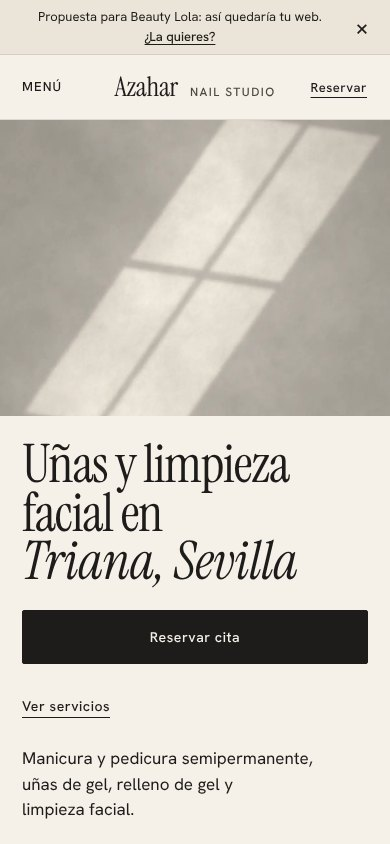
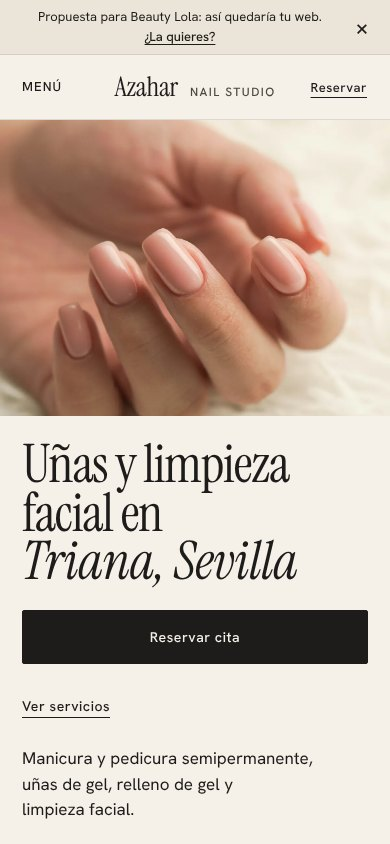
Fotos reales de Unsplash y horario con dos franjas
- Las cinco fotos (subidas a la raíz) pasan a src/assets/img/photos/ sustituyendo a las
  provisionales; en site.config.mjs provisional: false y los textos alternativos indicados.
- Horario: lunes a viernes 10:00-14:00 y 17:00-20:30, sábado 10:00-14:00, domingo cerrado.
  El formato admite varias franjas por día (`franjas`) y mantiene la forma corta abre/cierra;
  se valida el orden y los solapes. La tabla las muestra una debajo de otra, el resumen de la
  portada y los datos estructurados las recogen y «abierto ahora» entiende la pausa de mediodía.
- Portada móvil: encuadre object-position 50% 55% (cuatro uñas centradas a 360, 390 y 430 px).
- Imagen para compartir y capturas regeneradas; README: fotos de Unsplash y licencia, sin
  referencias a fotos provisionales.
- Tests (134): «abierto ahora» con reloj fijo en todas las franjas, validación de franjas,
  dimensiones y alt de las fotos comprobadas en el navegador y presupuesto de peso separando
  lo imprescindible de las fotos que Chrome adelanta.

Claude-Session: https://claude.ai/code/session_01KkmWQgXBP167e8u8chv8Gx

diff --git a/src/assets/css/styles.css b/src/assets/css/styles.css
@@ -281,6 +281,7 @@ p, dd { text-wrap: pretty; }
 .hours > div { display: flex; justify-content: space-between; align-items: baseline; padding: 16px 0; border-bottom: 1px solid var(--line-soft); font-variant-numeric: tabular-nums; }
 .hours dt { color: var(--ink-2); }
 .hours dd { font-weight: 500; }
+.hours__range { display: block; text-align: right; }   /* varias franjas el mismo día: una debajo de otra */
 .open-now { display: flex; align-items: center; gap: 10px; margin-top: 16px; font-size: .9375rem; font-weight: 500; }
 .open-now::before { content: ""; width: 9px; height: 9px; border: 1px solid var(--mute); border-radius: 50%; }
 .open-now.is-open::before { background: var(--bronze); border-color: var(--bronze); }
@@ -441,7 +442,7 @@ p, dd { text-wrap: pretty; }
   .hero { padding: 0; }
   .hero__grid { display: flex; flex-direction: column; padding: 0; }
   .hero__media { order: -1; position: relative; margin: 0; align-self: stretch; width: 100%; height: clamp(230px, 35svh, 440px); aspect-ratio: auto; }
-  .hero__media img { position: absolute; inset: 0; object-position: 50% 24%; }
+  .hero__media img { position: absolute; inset: 0; object-position: 50% 55%; }   /* franja baja y ancha: centra las uñas (probado a 360, 390 y 430 px) */
   .hero__copy { padding: 24px var(--gutter) 40px; justify-content: flex-start; gap: 24px; }
   .hero__title { font-size: 13.6vw; }
   .hero__foot { gap: 18px; }

diff --git a/src/index.html b/src/index.html
@@ -242,7 +242,7 @@
 
         <dl class="hours">
 {{#each horario}}
-          <div><dt>{{etiqueta}}</dt><dd>{{rango}}</dd></div>
+          <div><dt>{{etiqueta}}</dt><dd>{{#if abierto}}{{#each franjas}}<span class="hours__range">{{abre}} – {{cierra}}</span>{{#unless @last}}<span class="sr-only"> y </span>{{/unless}}{{/each}}{{else}}Cerrado{{/if}}</dd></div>
 {{/each}}
         </dl>
         <p class="open-now" id="open-now" data-horario="{{horarioJson}}" aria-live="polite" hidden></p>

diff --git a/README.md b/README.md
@@ -38,7 +38,7 @@ Añade `?para=Nombre` a la dirección y la barra de demo se dirige a esa persona
 | Páginas legales | Arriba, la nota *«Página de ejemplo. En tu web irán tus datos reales.»*; los datos del titular aparecen como *Pendiente*. |
 | Google | `noindex, nofollow` en **todas** las páginas, `robots.txt` con `Disallow: /`, sin `sitemap.xml` y **sin datos estructurados** de negocio local. |
 | Vista previa al compartir | `og:title` *«Web de ejemplo · JM Web Studio»*, descripción corta y `og:image` de 1200×630 (≈ 53 KB) hecha a partir de la portada, con URL absoluta. |
-| Servicios y reservas | Exactamente los 5 servicios de abajo, cada uno con su propio calendario de Cal.com. Su disponibilidad (lunes a viernes, de 9:00 a 17:00) coincide con el horario de la web. |
+| Servicios y reservas | Exactamente los 5 servicios de abajo, cada uno con su propio calendario de Cal.com. El horario de la web (lunes a viernes de 10:00 a 14:00 y de 17:00 a 20:30, sábado de 10:00 a 14:00, domingo cerrado) debe coincidir con la disponibilidad de Cal.com. |
 
 | Servicio | Duración | Precio | Calendario de Cal.com |
 | --- | --- | --- | --- |
@@ -58,13 +58,13 @@ Todo lo que no es de este salón vive en `site.config.mjs` y en `src/assets/img/
 2. **Edita [`site.config.mjs`](site.config.mjs)** (cada bloque está comentado):
    - `negocio`: nombre, marca, zona, **dirección** y consulta del mapa.
    - `contacto`: teléfono, WhatsApp y mensaje, correo (vacío = no se muestra).
-   - `horario`: franjas por días. **Debe coincidir con la disponibilidad de Cal.com.**
+   - `horario`: filas de días con una o varias `franjas` (p. ej. mañana y tarde el mismo día), o `cerrado: true`. **Debe coincidir con la disponibilidad de Cal.com.**
    - `reservas`: usuario de Cal.com y la lista de `servicios` (nombre, categoría, minutos, precio y `slug`). Cada servicio abre `cal.com/<usuario>/<slug>`: crea esos eventos en Cal.com con la misma duración.
    - `textos`: titular, bajadas, descripción SEO, textos de *Estudio* y de la ubicación.
    - `resenas`: **solo reseñas reales** (con permiso) o una lista vacía.
    - `colores`: la paleta (el test de contraste avisa si una combinación deja de cumplir WCAG AA).
    - `legal`: titular, NIF y domicilio. Lo que quede vacío se muestra como *Pendiente*.
-3. **Sustituye las fotos** en `src/assets/img/photos/` (ver [Fotografía](#fotografía)) y marca en `fotos` `provisional: false` con su `alt`.
+3. **Sustituye las fotos** de la demo en `src/assets/img/photos/` por las del cliente (ver [Fotografía](#fotografía)) y escribe en `fotos` el `alt` de cada una.
 4. **Regenera la imagen para compartir y los iconos**: `npm run assets` (usa el nombre, el titular, los colores y la foto de portada). Si quieres otro icono de pestaña, cambia `src/assets/img/favicon.svg` antes.
 5. **Desactiva el modo demo**: en `site.config.mjs`, `modoDemo: false` y `sitio.url: 'https://www.minegocio.es'`.
 6. **Comprueba**: `npm run build` imprime avisos de lo que falta (datos legales, fotos provisionales, textos de la demo que sigan en la configuración) y `npm test` verifica contraste, enlaces, SEO y reservas.
@@ -92,11 +92,11 @@ Archivos de `src/assets/img/photos/` (WebP, JPG o PNG; el ancho y el alto se lee
 
 | Clave en `fotos` | Dónde sale | Proporción | Notas |
 | --- | --- | --- | --- |
-| `portada` | Portada (imagen LCP) | Vertical, 4:5 recomendada | Se recorta entre ~2:3 y 1:1 según la pantalla: el motivo, centrado. |
+| `portada` | Portada (imagen LCP) | Vertical, 4:5 recomendada | Se recorta entre ~2:3 y 1:1 según la pantalla: el motivo, centrado. En móvil es una franja ancha y baja; su encuadre vertical se ajusta con `object-position` en `.hero__media img` (`src/assets/css/styles.css`, bloque de ≤ 760 px). |
 | `estudio` | Sección *Estudio* | 3:2 | Foto real del local. |
 | `galeria[0]`, `[1]`, `[2]` | Galería | 4:5, 1:1 y 4:3 | Exactamente tres (el diseño tiene tres huecos). |
 
-**Las cinco fotos actuales son provisionales** (estudios de luz generados por código, sin personas ni productos): hay que sustituirlas por fotografía real con permiso. Con `provisional: true` llevan `alt=""` y `data-placeholder`, y `npm test` muestra un aviso.
+Las cinco fotos de la demo son **fotografías de Unsplash** (ver [Licencias](#licencias)), con su texto alternativo en `fotos`. En la web de un cliente, sustitúyelas por fotos propias del negocio: no presentes fotos de stock como si fueran del local. Si mientras tanto usas una imagen de relleno, márcala con `provisional: true` (lleva `alt=""` y `data-placeholder`, y `npm test` avisa).
 
 ---
 
@@ -122,7 +122,7 @@ src/                       Plantillas HTML y recursos
   assets/js/main.js        Menú, barra de demo y ?para, consentimiento, Cal.com, mapa, barra móvil, «abierto ahora»
   assets/fonts/            Instrument Serif y Hanken Grotesk (woff2, SIL OFL)
   assets/img/              Favicon, icono iOS e imagen para compartir (se regeneran con npm run assets)
-  assets/img/photos/       Fotografías (hoy, placeholders)
+  assets/img/photos/       Fotografías (las de la demo, de Unsplash)
 scripts/
   build.mjs                Compila src/ + configuración a dist/ (demo o producción)
   config.mjs · template.mjs · image-size.mjs   Carga y validación de la configuración, motor de plantillas, tamaño de fotos
@@ -142,12 +142,12 @@ npx playwright install chromium  # solo la primera vez, para los tests
 npm run dev                      # http://localhost:8765 (compila y recompila al guardar src/ o site.config.mjs)
 npm run build                    # genera dist/
 npm run validate                 # compila en modo demo y producción y valida el HTML de ambos
-npm test                         # 132 pruebas (ver abajo)
+npm test                         # 134 pruebas (ver abajo)
 npm run assets                   # regenera og-image.jpg y los iconos desde la configuración
 npm run screenshots              # actualiza docs/screenshots/
 ```
 
-**Pruebas.** Chromium real, cinco anchos (360–1920 px): consola, red y desbordes; enlaces y anclas; SEO y accesibilidad estática; que la web muestre exactamente lo configurado; consentimiento y reservas por servicio (con un doble local de Cal.com); móvil, teclado, movimiento reducido y peso; contraste AA de la paleta de la configuración. Además:
+**Pruebas.** Chromium real, cinco anchos (360–1920 px): consola, red y desbordes; enlaces y anclas; SEO y accesibilidad estática; que la web muestre exactamente lo configurado; consentimiento y reservas por servicio (con un doble local de Cal.com); móvil, teclado, movimiento reducido y peso; el indicador «abierto ahora» con reloj fijo en todas las franjas (incluida la pausa de mediodía); dimensiones reales y textos alternativos de las fotos; contraste AA de la paleta de la configuración. Además:
 
 - **Demo**: texto exacto de la barra y de los mensajes de WhatsApp, `?para=` (inyección de HTML, patrones `$&`, caracteres de control, 60 caracteres, vacío), cierre en `sessionStorage`, contacto sin correo, reseñas y dirección de ejemplo, notas legales, `noindex` + `robots.txt` + sin sitemap ni schema, Open Graph, y la **primera pantalla en 390×844**.
 - **Producción**: sin rastro de la demo, indexable, schema.org coherente con lo que se ve, `robots.txt` y `sitemap.xml`.
@@ -158,10 +158,10 @@ npm run screenshots              # actualiza docs/screenshots/
 
 - Verificado únicamente en Chromium (no en Safari ni en Firefox) y sin lectores de pantalla.
 - El calendario real de Cal.com y el mapa de Google no se pudieron cargar desde el entorno de desarrollo (sin salida a internet); la integración se verifica con un doble de `embed.js`. Los enlaces externos no se han comprobado en vivo. Los eventos de Cal.com y su disponibilidad se verificaron por la API.
-- Las fotos son provisionales y los textos legales, orientativos.
+- Los textos legales son orientativos: que los revise un profesional antes de publicar una web real.
 - La imagen para compartir (`og-image.jpg`) es un archivo: tras cambiar el negocio hay que ejecutar `npm run assets`.
 - No se ha medido con Lighthouse. Peso aproximado de la primera pantalla móvil: unos 175 KB sin comprimir (HTML, CSS, JS, fuentes y foto de portada).
 
 ## Licencias
 
-Sin licencia de código abierto declarada para el código del proyecto. Tipografías *Instrument Serif* y *Hanken Grotesk*: SIL Open Font License 1.1. Fotografías provisionales: generadas por código para este proyecto.
+Sin licencia de código abierto declarada para el código del proyecto. Tipografías *Instrument Serif* y *Hanken Grotesk*: SIL Open Font License 1.1. Fotografías de la demo: de [Unsplash](https://unsplash.com), con la [licencia de Unsplash](https://unsplash.com/license).
